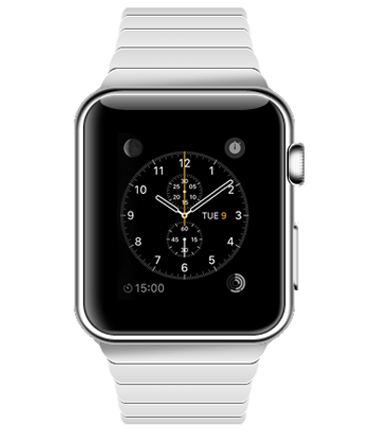
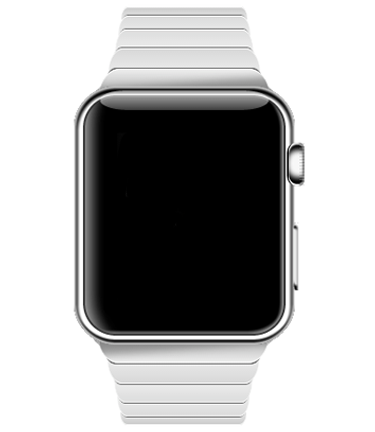
VIDEO BABYYYY J AI DIT

diff --git a/about.html b/about.html
@@ -140,7 +140,8 @@
     <div class="container">
         <div class="row">
             <div class="col-md-6 text-center mb-5 mb-lg-0">
-                <img class="img-fluid" src="images/photographic_styles_hw__csidygykh3cm_large_2x.png" alt="">
+                <img class="img-fluid" src="images/blackbackground.png" alt="" style="position: relative">
+                <video src="images/large_003.mp4"  width=480 height=900 style="position: absolute; top: 110px; left: 50px" autoplay loop ></video>
             </div>
             <div class="col-md-6 align-self-center text-center text-md-left">
                 <div class="content">
